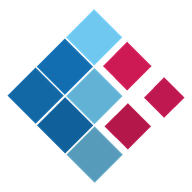
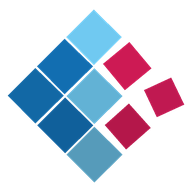
fix(brand): the three crimson tiles are rotated squares, not diamonds
Measured against the source artwork: the six blue tiles sit at exactly -45
degrees on a regular lattice, but each crimson tile is a square rotated by
its own angle (-39.6, -41.8, -25.1), tumbling away from the block. Drawing
all nine as diamonds flattened the motion the logo depicts.

Rebuilt from the artwork's corner vertices, which also regenerates every
raster derived from them: favicon, apple-touch, 192/512 icons, og:image and
the full logo. A pixel diff against the artwork drops strong deviation from
2.09% to 1.36%, and at the sizes these are actually shown the mean channel
difference is 3-4 of 255 — the flattened per-tile gradient and antialiasing,
nothing structural.

diff --git a/.atl/skill-registry.md b/.atl/skill-registry.md
@@ -1,0 +1,53 @@
+# Skill Registry — ticlat
+
+<!-- Auto-generated by gentle-ai skill-registry refresh. Run `gentle-ai skill-registry refresh --force` to regenerate. -->
+
+Last updated: 2026-08-29
+
+## Sources scanned
+
+- /home/andres/.pi/agent/skills
+- /home/andres/.agents/skills
+- /home/andres/.config/opencode/skills
+- /home/andres/.claude/skills
+- /home/andres/.gemini/skills
+- /home/andres/.gemini/antigravity-cli/skills
+- /home/andres/.codex/skills
+
+## Contract
+
+**Delegator use only.** This registry is an index, not a summary. Any agent that launches subagents reads it to select relevant skills, then passes exact `SKILL.md` paths for the subagent to read before work.
+
+`SKILL.md` remains the source of truth. Do not inject generated summaries or compact rules by default; pass paths so subagents load the full runtime contract and preserve author intent.
+
+## Skills
+
+| Skill | Trigger / description | Scope | Path |
+| --- | --- | --- | --- |
+| `baseline-ui` | Quickly deslop UI code by fixing spacing, hierarchy, typography, and small layout issues. Use when the interface needs a fast cleanup or polish pass. | user | `/home/andres/.pi/agent/skills/baseline-ui/SKILL.md` |
+| `branch-pr` | Create Gentle AI pull requests with issue-first checks. Trigger: creating, opening, or preparing PRs for review. | user | `/home/andres/.agents/skills/branch-pr/SKILL.md` |
+| `chained-pr` | Trigger: PRs over 400 lines, stacked PRs, review slices. Split oversized changes into chained PRs that protect review focus. | user | `/home/andres/.agents/skills/chained-pr/SKILL.md` |
+| `cognitive-doc-design` | Design docs that reduce cognitive load. Trigger: writing guides, READMEs, RFCs, onboarding, architecture, or review-facing docs. | user | `/home/andres/.agents/skills/cognitive-doc-design/SKILL.md` |
+| `comment-writer` | Write warm, direct collaboration comments. Trigger: PR feedback, issue replies, reviews, Slack messages, or GitHub comments. | user | `/home/andres/.agents/skills/comment-writer/SKILL.md` |
+| `create-design-md` | Create or update a DESIGN.md from an existing product repository or public website. Use when asked to document an interface's design language, reconstruct its visual system, extract design tokens and guidance from current evidence, or give coding agents persistent UI context. Do not modify product source or promote accidental implementation patterns into design decisions. | user | `/home/andres/.pi/agent/skills/create-design-md/SKILL.md` |
+| `diagnose-crash` | Diagnose why a program crashed on this machine, from a systemd-coredump core dump. Use when a process has segfaulted, aborted, or otherwise dumped core, when asked why an application crashed or disappeared, or when a "Process crashed:" desktop notification is acted on. Triggers: crash, segfault, SIGSEGV, SIGABRT, core dump, coredumpctl, "why did X crash", "X keeps crashing", backtrace symbolization. Covers reporting a confirmed Omarchy bug upstream — see reporting.md. | user | `/home/andres/.pi/agent/skills/diagnose-crash/SKILL.md` |
+| `find-skills` | Helps users discover and install agent skills when they ask questions like "how do I do X", "find a skill for X", "is there a skill that can...", or express interest in extending capabilities. This skill should be used when the user is looking for functionality that might exist as an installable skill. | user | `/home/andres/.pi/agent/skills/find-skills/SKILL.md` |
+| `frontend-design` | Guidance for distinctive, intentional visual design when building new UI or reshaping an existing one. Helps with aesthetic direction, typography, and making choices that don't read as templated defaults. | user | `/home/andres/.pi/agent/skills/frontend-design/SKILL.md` |
+| `gentle-ai-bench` | Trigger: bench, journey, journeys, driven mode, gentle-ai-bench, journey corpus, j-numbers, bench axis. Author and verify gentle-ai bench journeys; go test ./bench never proves driven execution. | user | `/home/andres/.agents/skills/gentle-ai-bench/SKILL.md` |
+| `go-testing` | Trigger: Go tests, go test coverage, Bubbletea teatest, golden files. Apply focused Go testing patterns. | user | `/home/andres/.agents/skills/go-testing/SKILL.md` |
+| `improve-ui` | Audit an existing product surface against its own design evidence, identify verified UI problems, and write self-contained implementation plans for another agent. Strictly read-only on product source. Use when asked to review, refine, improve, or clean up an interface without replacing its identity; investigate design-system drift; or prepare a design handoff. | user | `/home/andres/.pi/agent/skills/improve-ui/SKILL.md` |
+| `issue-creation` | Create and triage GitHub issues from repository evidence. Trigger: issue creation, bug reports, feature requests, or issue approval. | user | `/home/andres/.agents/skills/issue-creation/SKILL.md` |
+| `judgment-day` | Trigger: judgment day, dual review, adversarial review, juzgar. Run explicit blind dual review with at most two scoped fix/re-judgment rounds. | user | `/home/andres/.agents/skills/judgment-day/SKILL.md` |
+| `omarchy` | REQUIRED for end-user customization of Linux desktop, window manager, or system config. Use when editing ~/.config/hypr/, ~/.config/omarchy/, ~/.config/alacritty/, ~/.config/foot/, ~/.config/kitty/, or ~/.config/ghostty/. Triggers: Hyprland, window rules, animations, keybindings, monitors, gaps, borders, blur, opacity, omarchy-shell, bar, terminal config, themes, background, night light, idle, lock screen, screenshots, reminders, layer rules, workspace settings, display config, and user-facing omarchy commands. Excludes Omarchy source development through `omarchy dev link` workflows. | user | `/home/andres/.pi/agent/skills/omarchy/SKILL.md` |
+| `rdd-defect-workflow` | Trigger: RDD, receipt-driven development, review authority, receipt/lineage, correction/recovery, delivery gate/kill switch, bounded review defects. Guide work. | user | `/home/andres/.agents/skills/rdd-defect-workflow/SKILL.md` |
+| `skill-creator` | Trigger: new skills, agent instructions, documenting AI usage patterns. Create LLM-first skills with valid frontmatter. | user | `/home/andres/.agents/skills/skill-creator/SKILL.md` |
+| `skill-improver` | Trigger: improve skills, audit skills, refactor skills, skill quality. Audit and upgrade existing LLM-first skills. | user | `/home/andres/.agents/skills/skill-improver/SKILL.md` |
+| `systemic-issue-triage` | Trigger: new issue, bug report, triage, backlog, issue flood, community report, root cause, dead-end, blocked user. Attack issues by root class, never one-by-one; fixes must shrink the system, not grow it. | user | `/home/andres/.agents/skills/systemic-issue-triage/SKILL.md` |
+| `work-unit-commits` | Plan commits as reviewable work units. Trigger: implementation, commit splitting, chained PRs, or keeping tests and docs with code. | user | `/home/andres/.agents/skills/work-unit-commits/SKILL.md` |
+
+## Loading protocol
+
+1. Match task context and target files against the `Trigger / description` column.
+2. Pass only the matching `Path` values to the subagent under `## Skills to load before work`.
+3. Instruct the subagent to read those exact `SKILL.md` files before reading, writing, reviewing, testing, or creating artifacts.
+4. If no matching skill exists, proceed without project skill injection and report `skill_resolution: none`.
